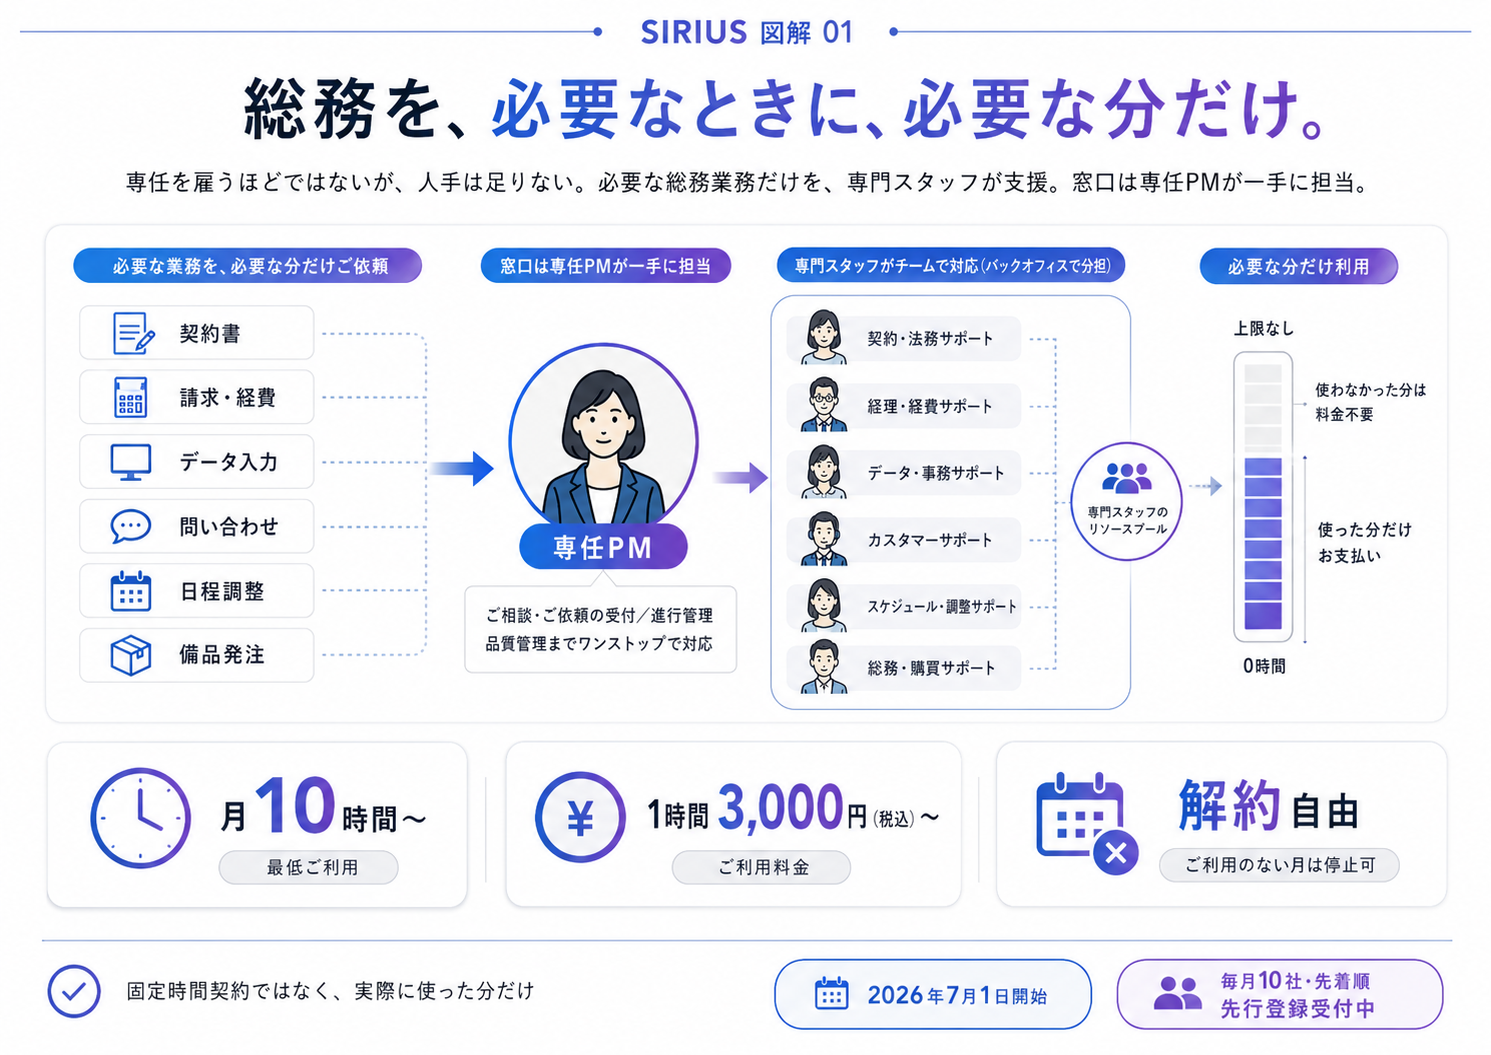
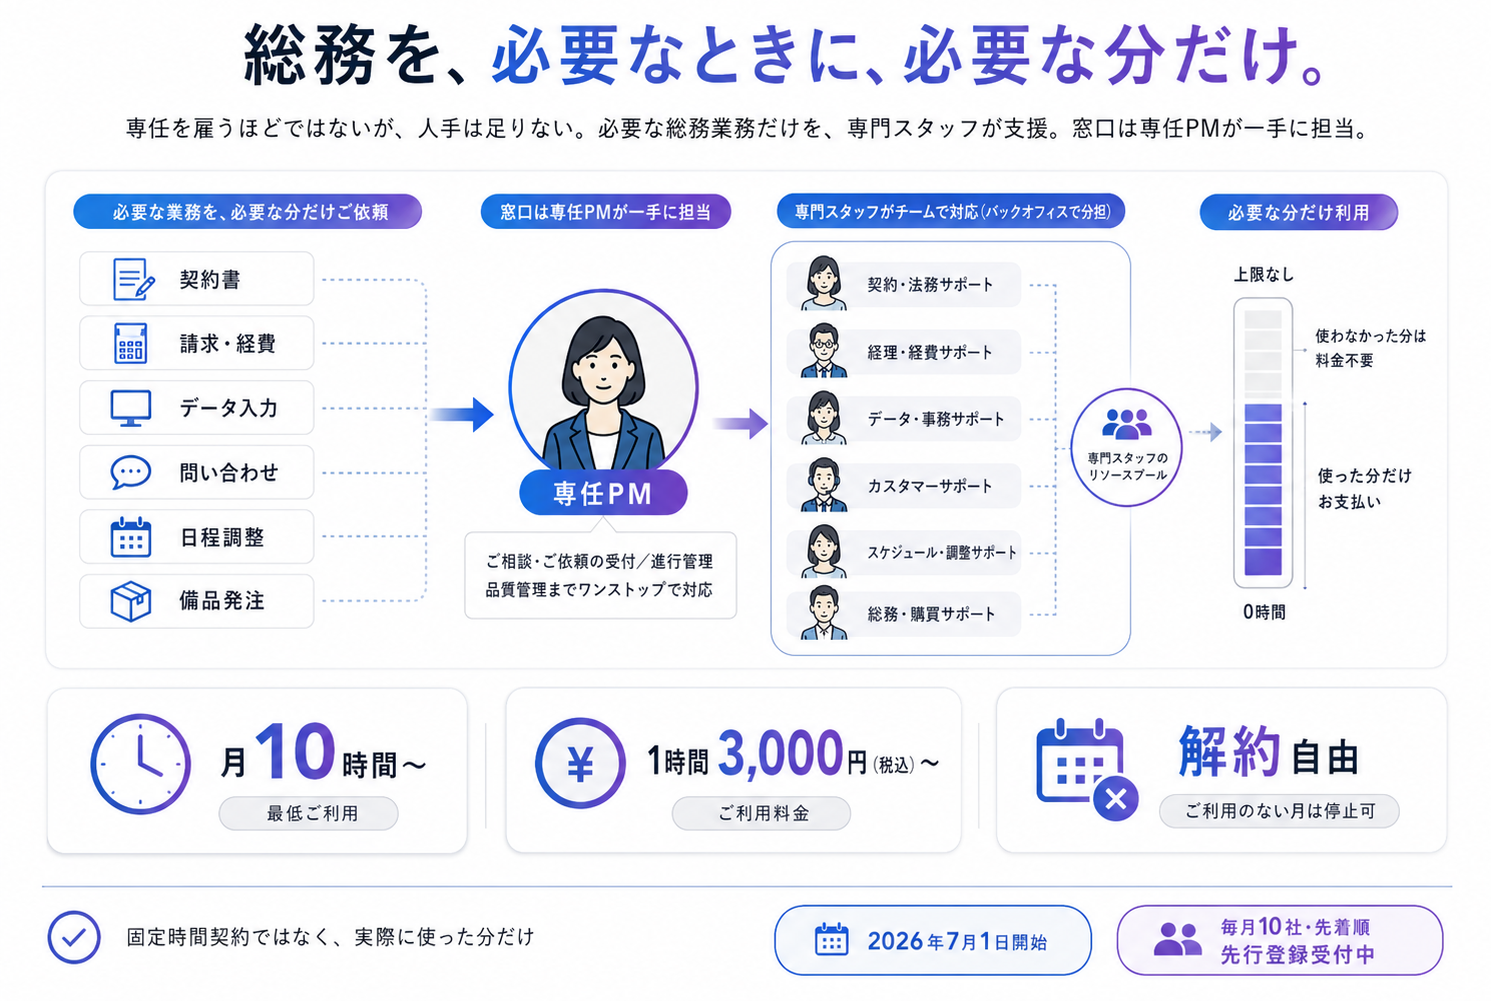
HERO: remove visible H1 duplicate (keep as SEO-only); crop 'SIRIUS 図解 01' label off figure-01
- H1「総務を、必要なときに、必要な分だけ。」は図解01の見出しと重複 → 視覚的に非表示(.vh)化し、
  SEO/スクリーンリーダー用にHTMLには残置（ページのH1を失わない）
- figure-01.png の上端54pxをトリミングし『SIRIUS 図解 01』ラベルを除去（1491x1055→1491x1001）
- img height属性も1001に更新（レイアウトシフト防止）

diff --git a/index.html b/index.html
@@ -63,6 +63,7 @@
   .hero{padding:72px 0 66px;text-align:center;}
   .hero .eyebrow{margin-bottom:26px;}
   .hero h1{font-size:clamp(2rem,5.2vw,3rem);line-height:1.5;margin-bottom:26px;font-weight:600;}
+  .vh{position:absolute;width:1px;height:1px;padding:0;margin:-1px;overflow:hidden;clip:rect(0 0 0 0);white-space:nowrap;border:0;}
   .hero .sub{font-size:1.04rem;color:var(--sub);font-weight:400;max-width:34em;margin:0 auto 30px;line-height:2;}
   .facts{display:flex;justify-content:center;flex-wrap:wrap;gap:0;margin:0 auto 34px;max-width:36em;border-top:1px solid var(--line);border-bottom:1px solid var(--line);}
   .facts div{flex:1 1 0;min-width:120px;padding:16px 10px;}
@@ -264,9 +265,9 @@
 <section class="hero">
   <div class="wrap">
     <span class="eyebrow">中小企業のための総務アウトソーシング ／ 2026年7月1日 開始</span>
-    <h1>総務を、必要なときに、<br>必要な分だけ。</h1>
+    <h1 class="vh">総務を、必要なときに、必要な分だけ。</h1>
     <figure class="figblock">
-      <img class="figimg" src="assets/figure-01.png" width="1491" height="1055" fetchpriority="high" decoding="async" alt="SIRIUSの仕組み図。契約書・請求経費・データ入力・問い合わせ・日程調整・備品発注といった必要な総務業務を、専任のPMが窓口として一手に受け付け、契約・法務、経理・経費、データ・事務、カスタマー、スケジュール調整、総務・購買の専門スタッフがチームで分担して対応します。ご利用は使った分だけで、使わなかった分は料金がかかりません。月10時間・1時間3,000円（税込）から、解約自由。2026年7月1日開始、毎月10社・先着順で先行登録を受付中。" />
+      <img class="figimg" src="assets/figure-01.png" width="1491" height="1001" fetchpriority="high" decoding="async" alt="SIRIUSの仕組み図。契約書・請求経費・データ入力・問い合わせ・日程調整・備品発注といった必要な総務業務を、専任のPMが窓口として一手に受け付け、契約・法務、経理・経費、データ・事務、カスタマー、スケジュール調整、総務・購買の専門スタッフがチームで分担して対応します。ご利用は使った分だけで、使わなかった分は料金がかかりません。月10時間・1時間3,000円（税込）から、解約自由。2026年7月1日開始、毎月10社・先着順で先行登録を受付中。" />
       <figcaption class="figcap">「専任を雇うほどではないが、人手は足りない」。そうした総務を、<b>必要なときに必要な分だけ</b>、専門のスタッフが支援いたします。多くの事務代行のように月あたりの利用時間を提供側の都合で固定することはなく、ご利用いただいた分だけのご負担です。窓口は専任のPM（プロジェクトマネージャー）が一手に引き受けます。</figcaption>
     </figure>
     <a class="btn btn-primary" href="#register">先行登録する（無料・約1分で完了）</a>
